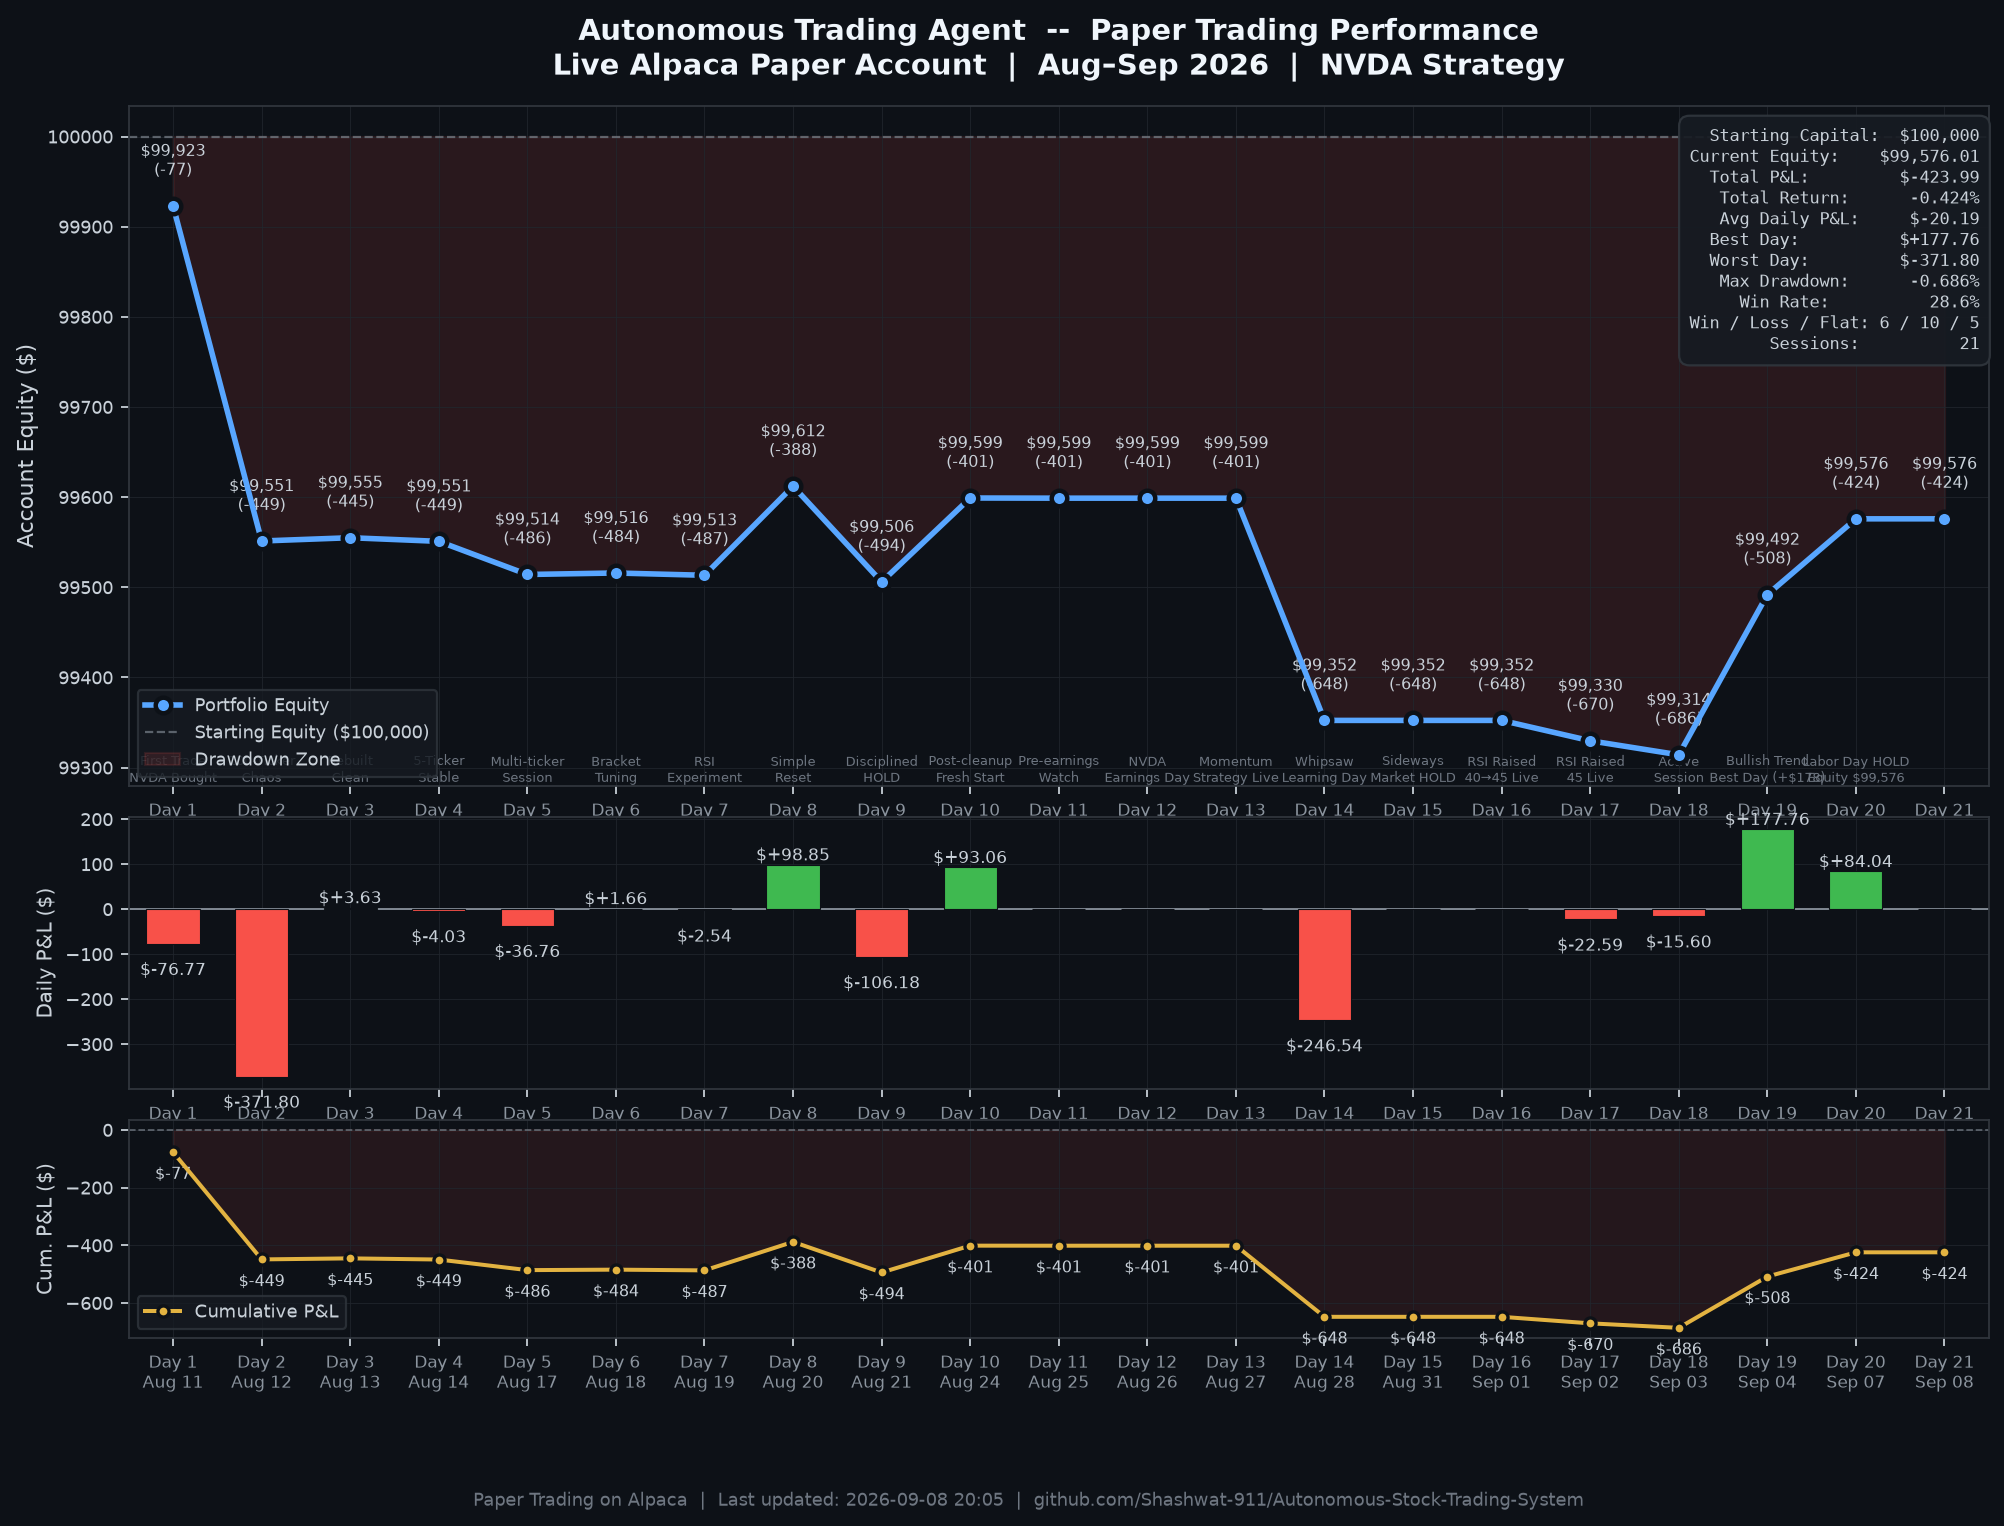
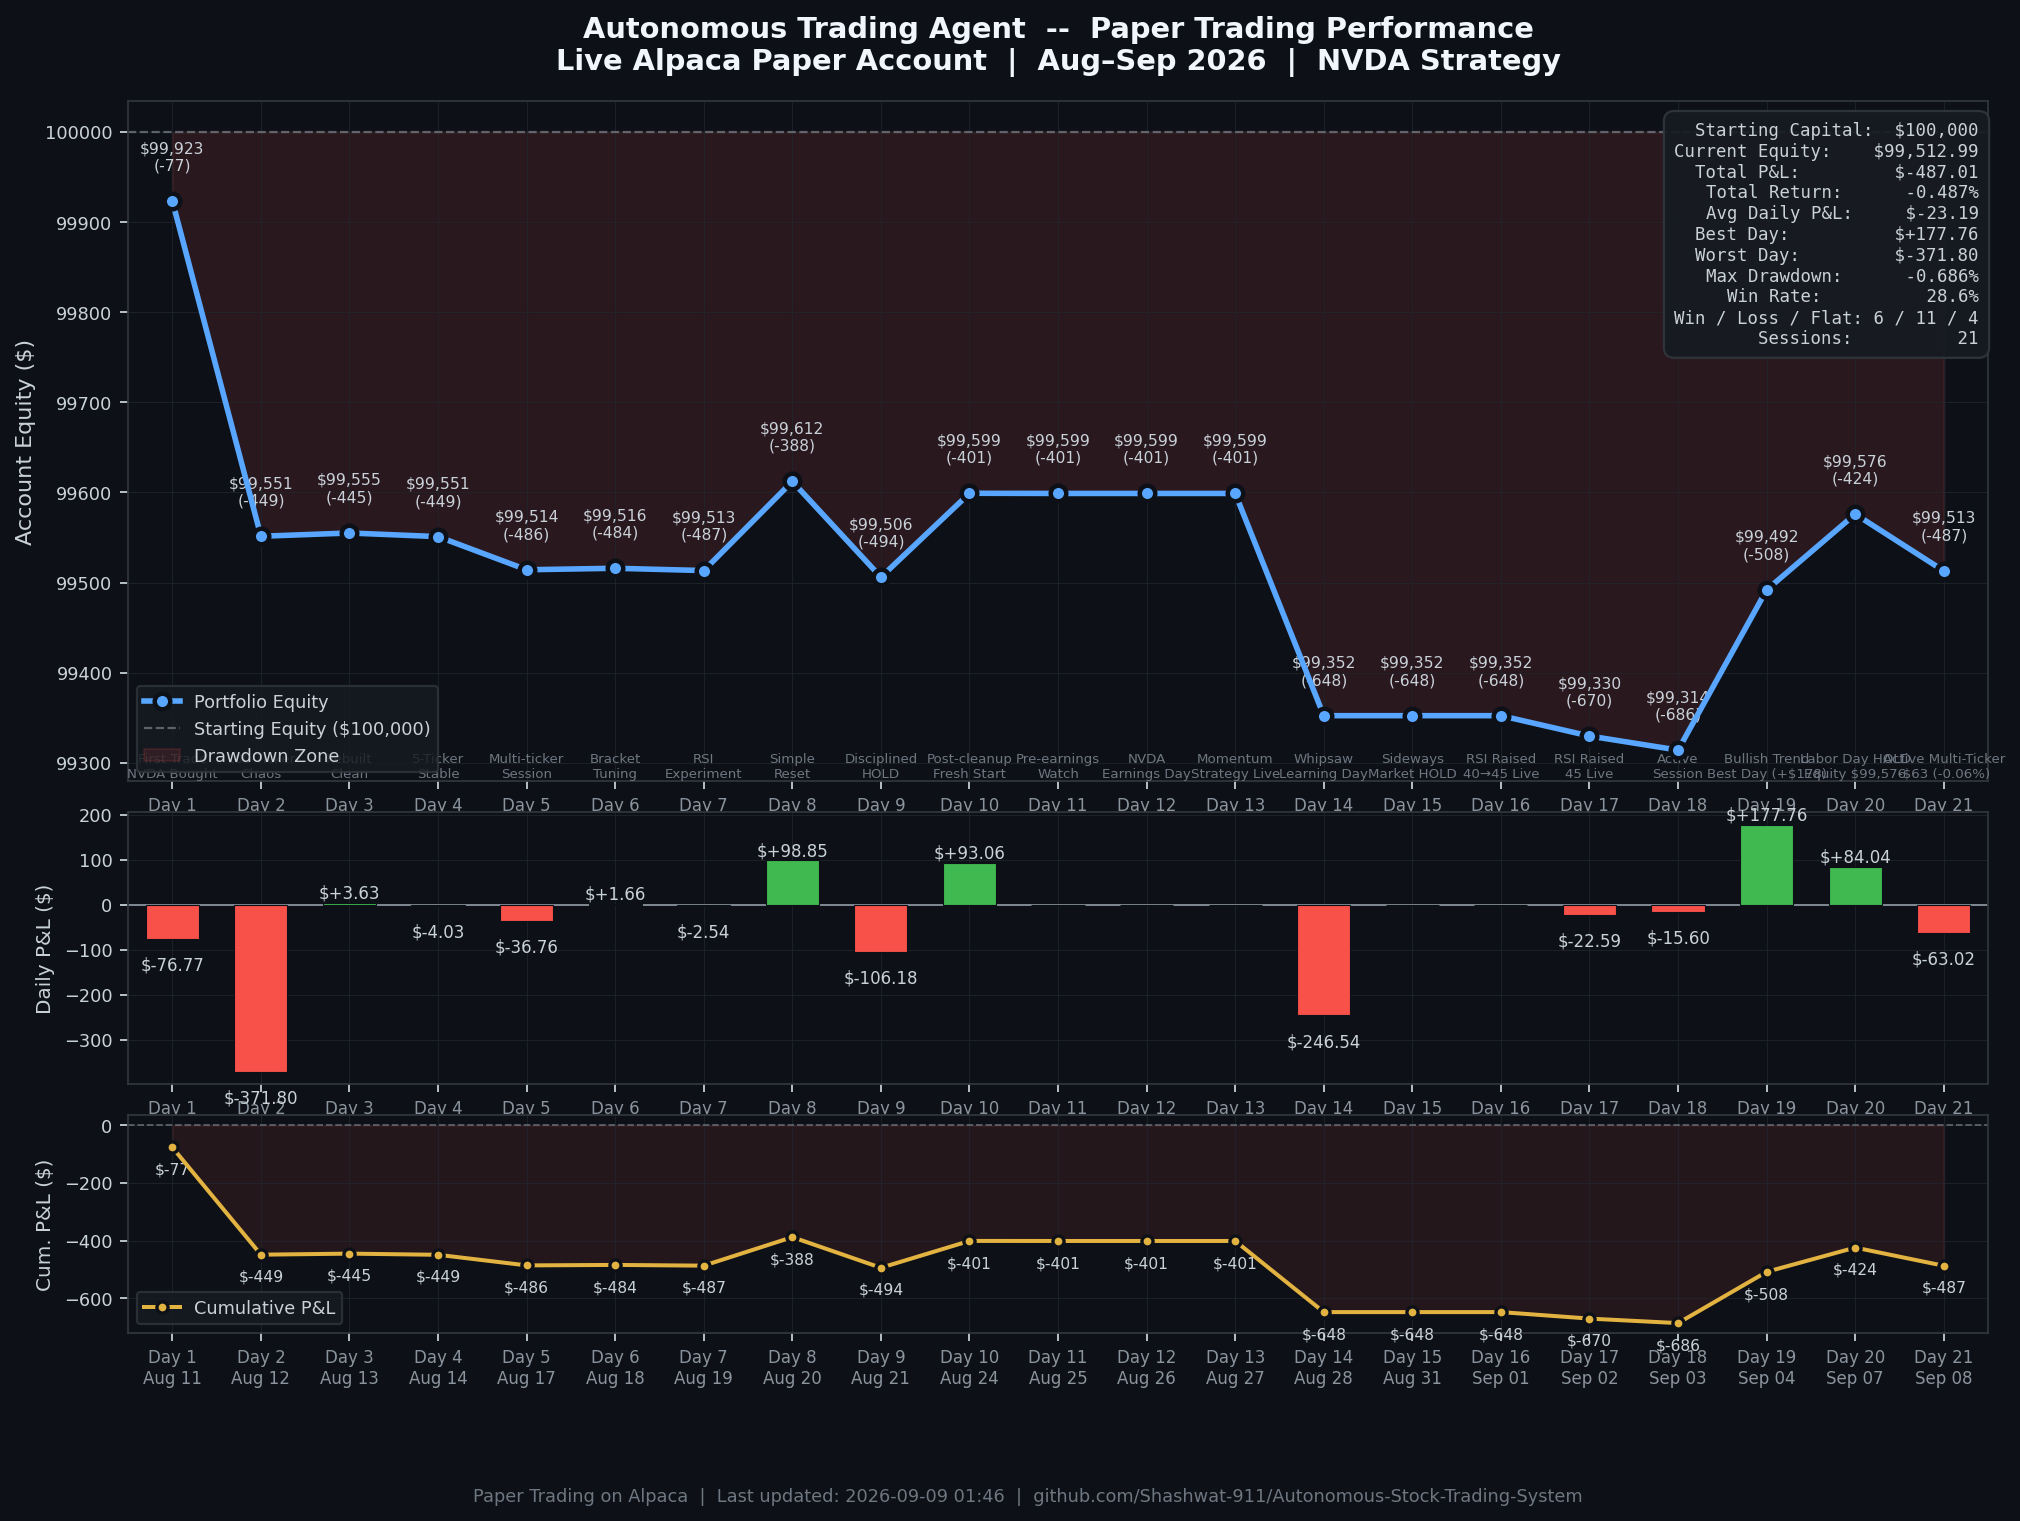
fix(analytics): reconcile Day 21 P&L and regenerate daily PnL chart

diff --git a/scripts/generate_pnl_chart.py b/scripts/generate_pnl_chart.py
@@ -42,6 +42,7 @@ session_notes = {
     "2026-09-03": "Active\nSession",
     "2026-09-04": "Bullish Trend\nBest Day (+$178)",
     "2026-09-07": "Labor Day HOLD\nEquity $99,576",
+    "2026-09-08": "Active Multi-Ticker\n-$63 (-0.06%)",
 }
 df["note"] = df["timestamp"].map(
     lambda x: session_notes.get(x, ""))
